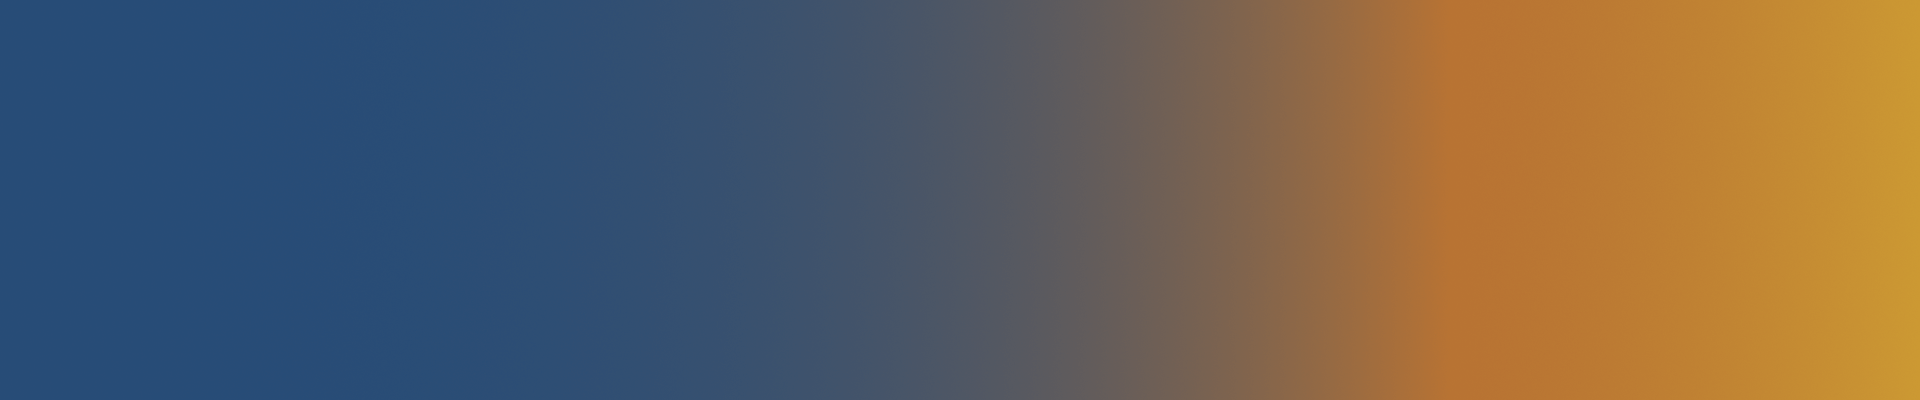
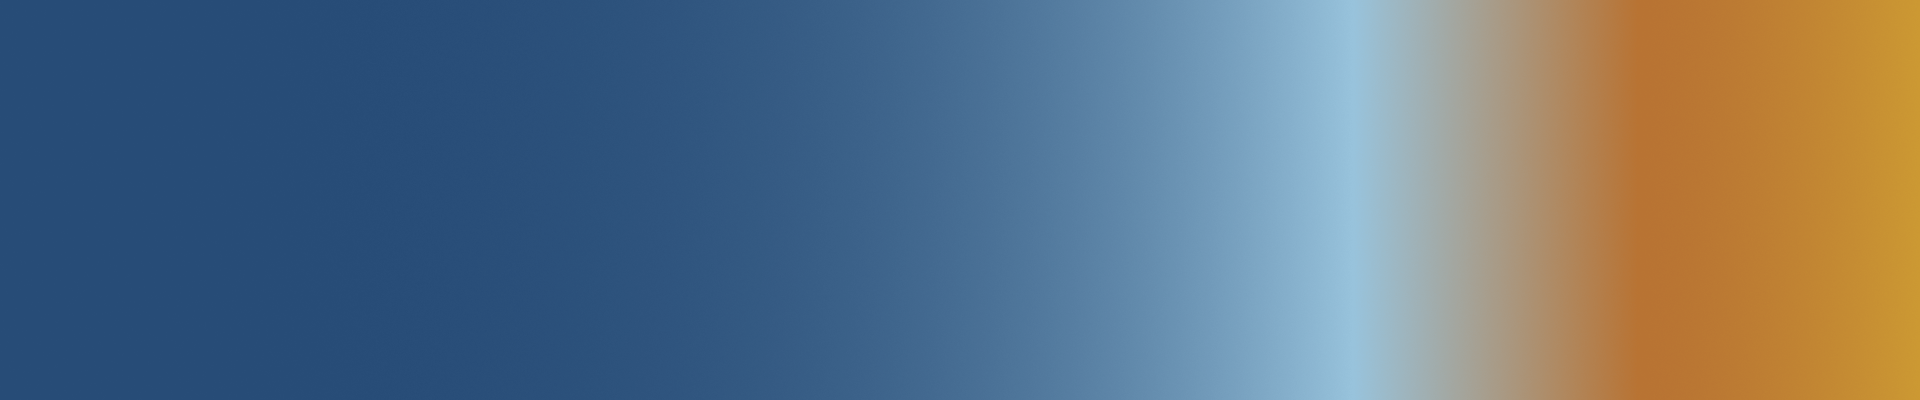
I've fucked fucked my human system once again, but once again, I made at least part of a thing,.

diff --git a/assets/css/custom.css b/assets/css/custom.css
@@ -743,11 +743,11 @@ code {
 }
 
 .project-grid--card-size-default {
-  --project-card-width: 320px;
+  --project-card-width: 330px;
 }
 
 .project-grid--card-size-compact {
-  --project-card-width: 280px;
+  --project-card-width: 290px;
 }
 
 /* Individual project card (outer wrapper, currently an <a>) */

diff --git a/dev/HUMAN_NOTES.md b/dev/HUMAN_NOTES.md
@@ -229,3 +229,215 @@ place:
 - 3D viewer + secondary sections into the right column,
 while preserving this underlying stacking order for small screens and
 assistive tech.
+
+
+
+
+
+
+
+
+
+
+
+
+
+
+
+
+
+
+
+
+
+
+
+
+
+
+PROJECT: Adjustable Aluminum Projector Mount
+description: "Adjustable aluminum projector mount for precise alignment of short-throw projectors in behavioral arenas."
+summary: "Adjustable aluminum projector mount for precise alignment of short-throw projectors in behavioral arenas."
+
+
+PROJECT: Dual-Bundle Electrode Drive
+description: "Split-bundle implant for dual-region tetrode recordings in freely moving rats."
+summary: "Split-bundle implant for dual-region tetrode recordings in freely moving rats."
+
+
+PROJECT: Fischer 344 Rat Model
+description: "To-scale 3D model of a Fischer 344 laboratory rat for design planning, visualization, and demonstration of behavioral systems."
+summary: "To-scale 3D model of a Fischer 344 laboratory rat for design planning, visualization, and demonstration of behavioral systems."
+
+
+PROJECT: Instantaneous Cue Rotation Arena
+description: "An augmented reality behavioral arena for studying cue-based navigation in freely moving rats."
+summary: "An augmented reality behavioral arena for studying cue-based navigation in freely moving rats."
+
+
+PROJECT: NC4gate Automatable Gate Module
+description: "Modular motorized gate system for autonomous control of rodent behavior in maze experiments."
+summary: "Modular motorized gate system for autonomous control of rodent behavior in maze experiments."
+
+
+PROJECT: NC4touch Behavioral Apparatus
+description: "Touchscreen-based behavioral apparatus for flexible, high-throughput cognitive testing with mice and rats."
+summary: "Touchscreen-based behavioral apparatus for flexible, high-throughput cognitive testing with mice and rats."
+
+
+PROJECT: Omniroute Maze System
+description: "A dynamically reconfigurable rodent maze system that integrates automated route configurations, sensory cue control, and targeted reward delivery."
+summary: "A dynamically reconfigurable rodent maze system that integrates automated route configurations, sensory cue control, and targeted reward delivery."
+
+
+PROJECT: Roller-Bearing Cable Guide
+description: "Compact, low-torsion cable guide with a bearing-mounted collet and dual-rail carriage for quiet, low-resistance travel in tethered rodent recordings."
+summary: "Compact, low-torsion cable guide with a bearing-mounted collet and dual-rail carriage for quiet, low-resistance travel in tethered rodent recordings."
+
+
+PROJECT: Silicon Probe Microdrive Housing
+description: "Implantable housing for high-density chronic silicon probe recordings in freely moving rats."
+summary: "Implantable housing for high-density chronic silicon probe recordings in freely moving rats."
+
+
+PROJECT: Track-Mounted Feeder Cart
+description: "Mobile feeder cart for controlled on-track liquid reinforcement with gated feeder access for rodent circular track experiments"
+summary: "Mobile feeder cart for controlled on-track liquid reinforcement with gated feeder access for rodent circular track experiments"
+
+
+PROJECT: Two-Axis Feeder Gantry
+description: "CNC-based gantry system for automated spatially targeted reward delivery in rodent open-field experiments."
+summary: "CNC-based gantry system for automated spatially targeted reward delivery in rodent open-field experiments."
+
+
+PROJECT: Wireless Mobile Feeder Robot
+description: "A mobile feeder robot for delivering liquid rewards to rats during circular track experiments"
+summary: "A mobile feeder robot for delivering liquid rewards to rats during circular track experiments"
+
+
+
+
+
+
+"Omniroute Maze System: rodent maze with fully automatable routes, cues, and reward delivery" 
+:contentReference[oaicite:0]{index=0}
+
+"90 × 90 cm rat maze with 60 motorized gates (NC4gate), 4 projectors for floor and gate-face visual cues, XY liquid-reward gantry, real-time 3D tracking, and unified closed-loop control via ROS" 
+:contentReference[oaicite:1]{index=1}
+
+"90x90 cm rat maze with 60 addressable gates (NC4gate), projected cues, 3D tracking, XY feeder gantry, and ROS control" 
+:contentReference[oaicite:2]{index=2}
+
+"A dynamically reconfigurable rodent maze integrating automated route configuration, projected sensory cues on the maze walls and floor, and spatially targeted reward delivery."
+:contentReference[oaicite:3]{index=3}
+
+"An open-source real-world navigation platform that combines dynamically reconfigurable routes via 60 motorized gates, projector-based visual and auditory cues, and an XY reward gantry with real-time 3D tracking and closed-loop control."
+:contentReference[oaicite:4]{index=4}
+
+
+"Modular three-screen touchscreen chamber for high-throughput cognitive testing in mice and rats." 
+:contentReference[oaicite:5]{index=5}
+
+"Three 3.5″ 320×480 capacitive touchscreens, automated liquid reward, overhead video, and multi-chamber Raspberry Pi-based real-time closed-loop control." 
+:contentReference[oaicite:6]{index=6}
+
+"3-touchscreen chamber for mice and rats with automated reward, overhead video, and multi-chamber Raspberry Pi-based control." 
+:contentReference[oaicite:7]{index=7}
+
+"NC4touch Behavioral Apparatus: touchscreen chamber for mouse and rat experiments." 
+:contentReference[oaicite:8]{index=8}
+
+
+"NC4gate Automatable Gate Module: an addressable motorized gate for programmatically configurable rodent mazes" 
+:contentReference[oaicite:9]{index=9}
+
+"Compact motorized gate module for autonomous maze configuration and dynamic behavioral control." 
+:contentReference[oaicite:10]{index=10}
+
+"Open-source NC4gate modular gate system for autonomous maze control with robust, low-cost hardware and a Python API and Qt GUI enabling control of up to 512 gates." 
+:contentReference[oaicite:11]{index=11}
+
+
+"Instantaneous Cue Rotation (ICR) Arena: augmented-reality rodent behavioral apparatus" 
+:contentReference[oaicite:12]{index=12}
+
+"Augmented-reality rodent arena enabling instantaneous rotation of a 360° panorama of visual cues during ongoing circular track navigation." 
+:contentReference[oaicite:13]{index=13}
+
+"1.4 m circular track with 68 cm rear-projection walls displaying a 360° cue panorama from 4 short-throw projectors." 
+:contentReference[oaicite:14]{index=14}
+
+"An augmented-reality method that remotely and instantaneously rotates all orienting visual cues during ongoing real-world navigation." 
+:contentReference[oaicite:15]{index=15}
+
+
+"Wireless Mobile Feeder Robot: Wireless cart subsystem for the ICR that tracks the rat and delivers liquid reward via a retractable dish." 
+:contentReference[oaicite:16]{index=16}
+
+"A mobile feeder robot for delivering liquid rewards to rats during circular track experiments."
+:contentReference[oaicite:17]{index=17}
+
+"Tracks rats on a circular track and delivers precisely timed, spatially targeted liquid food rewards." 
+:contentReference[oaicite:18]{index=18}
+
+
+"CNC-based gantry system for automated, spatially targeted liquid reward delivery in the Omniroute maze." 
+:contentReference[oaicite:19]{index=19}
+
+"XY gantry for automated spatially targeted reward delivery, developed for the Omniroute." 
+:contentReference[oaicite:20]{index=20}
+
+
+"Servo-gated mobile feeder with IR sensing for automated reward delivery, developed for use in the NC4 rodent VR Dome apparatus." 
+:contentReference[oaicite:21]{index=21}
+
+"Mobile feeder cart for controlled on-track liquid reinforcement with gated feeder access for rodent circular track experiments." 
+:contentReference[oaicite:22]{index=22}
+
+
+"Split-bundle implant for dual-region tetrode recordings in freely moving rats." 
+:contentReference[oaicite:23]{index=23}
+
+"18-shuttle implantable drive with independent depth control and bundle positioning for dual-site electrode recordings in freely moving rats." 
+:contentReference[oaicite:24]{index=24}
+
+
+"Implantable housing for high-density chronic silicon probe recordings in freely moving rats." 
+:contentReference[oaicite:25]{index=25}
+
+"Lightweight 3D-printed implantable housing for chronic silicon probe recordings with integrated Cambridge Neurotech NanoDrive adjustment." 
+:contentReference[oaicite:26]{index=26}
+
+
+"Compact, low-torsion cable guide with a bearing-mounted collet and dual-rail carriage for quiet, low-resistance travel in tethered rodent recordings." 
+:contentReference[oaicite:27]{index=27}
+
+
+"To-scale 3D model of a Fischer 344 laboratory rat for design planning, visualization, and demonstration of behavioral systems." 
+:contentReference[oaicite:28]{index=28}
+
+
+"Adjustable aluminum projector mount for precise alignment of short-throw projectors in behavioral arenas." 
+:contentReference[oaicite:29]{index=29}
+
+
+
+
+
+"I lead the end-to-end design and delivery of research instruments and hardware-software platforms." 
+:contentReference[oaicite:30]{index=30}
+
+"I’ve scoped, architected, built, and validated more than ten instruments in active use, including three standalone behavioral systems released as open source." 
+:contentReference[oaicite:31]{index=31}
+
+"Full-stack skills for building and deploying research instruments and end-to-end platforms." 
+:contentReference[oaicite:32]{index=32}
+
+"Integrated closed-loop research systems, with portfolio links." 
+:contentReference[oaicite:33]{index=33}
+
+"Behavioral platforms – fully integrated HW–SW systems for rodent behavioral neuroscience." 
+:contentReference[oaicite:34]{index=34}
+
+"Subsystems and instruments developed for real-time behavioral control, electrophysiology, and automated reward delivery."  
+(from combined context)
